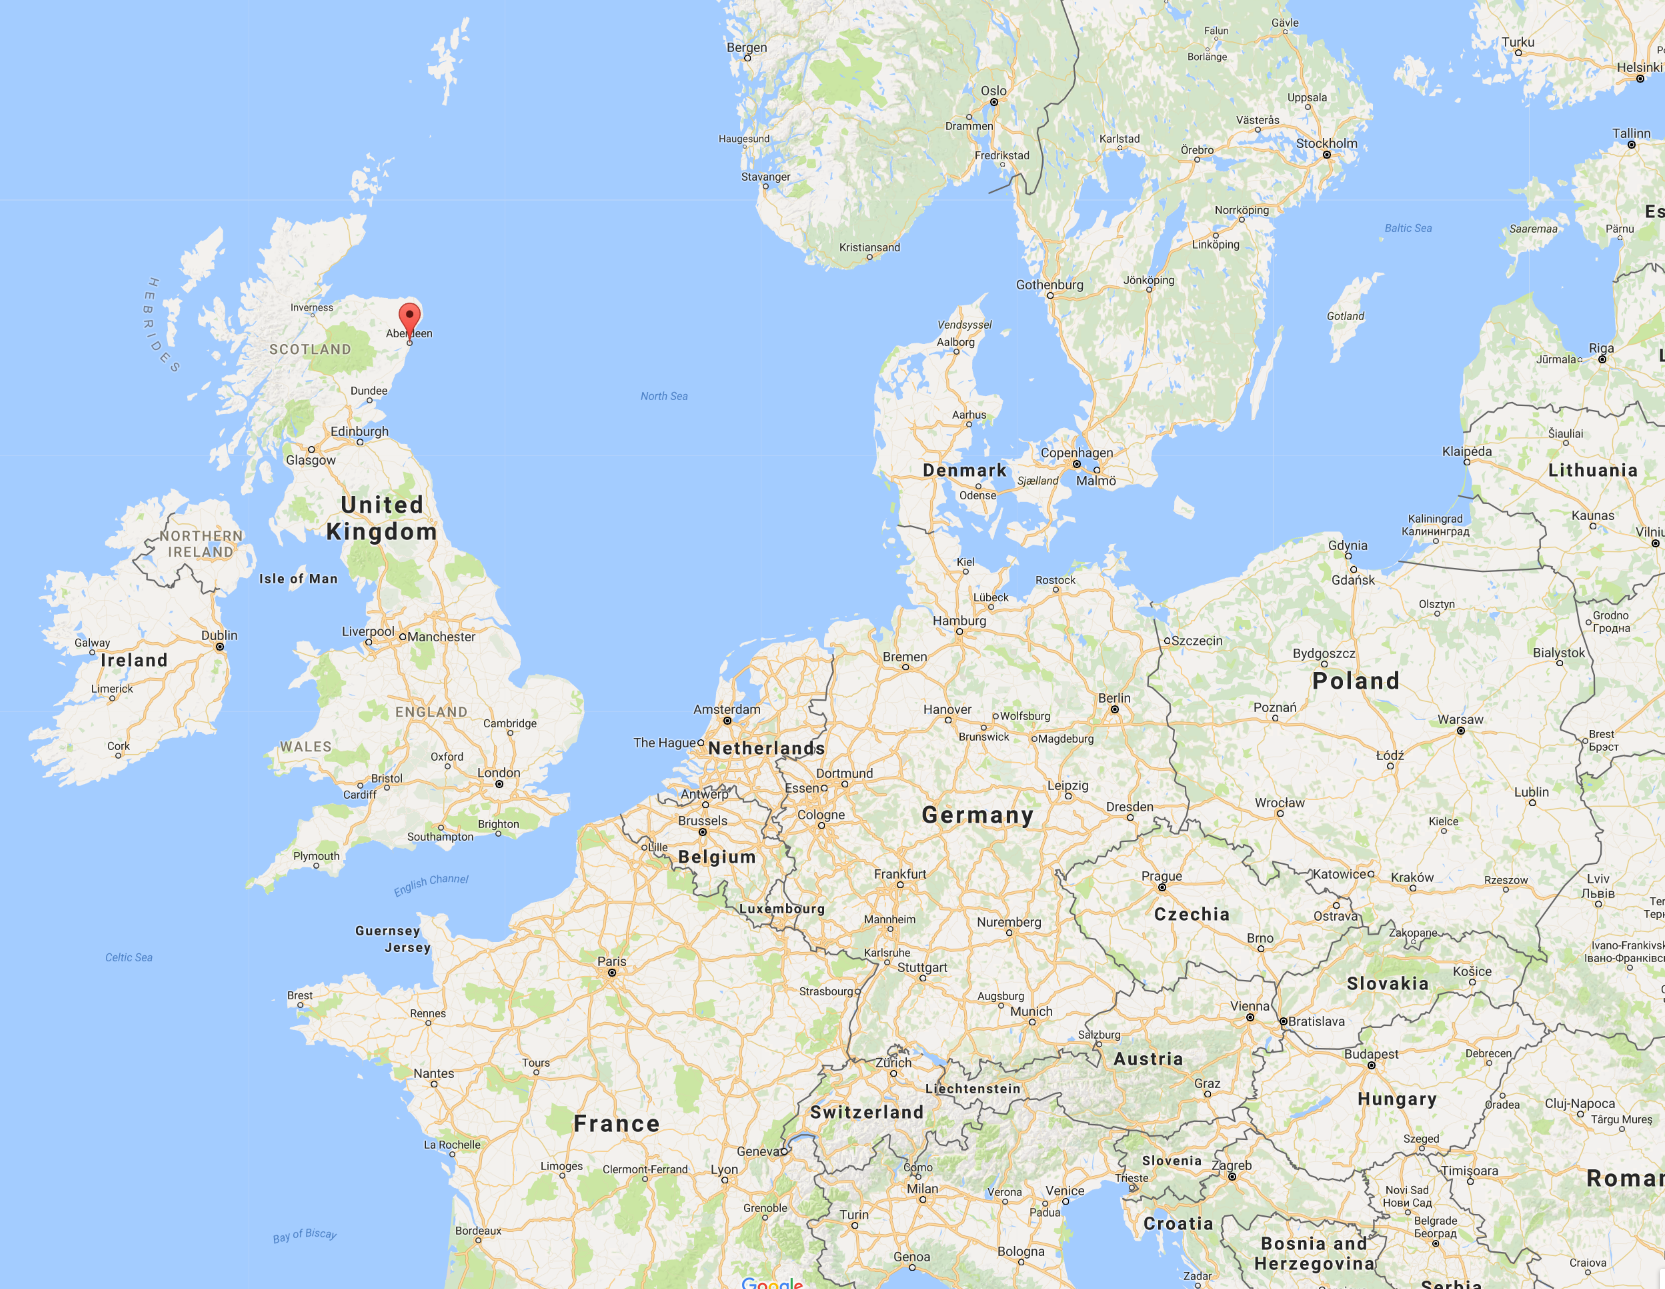
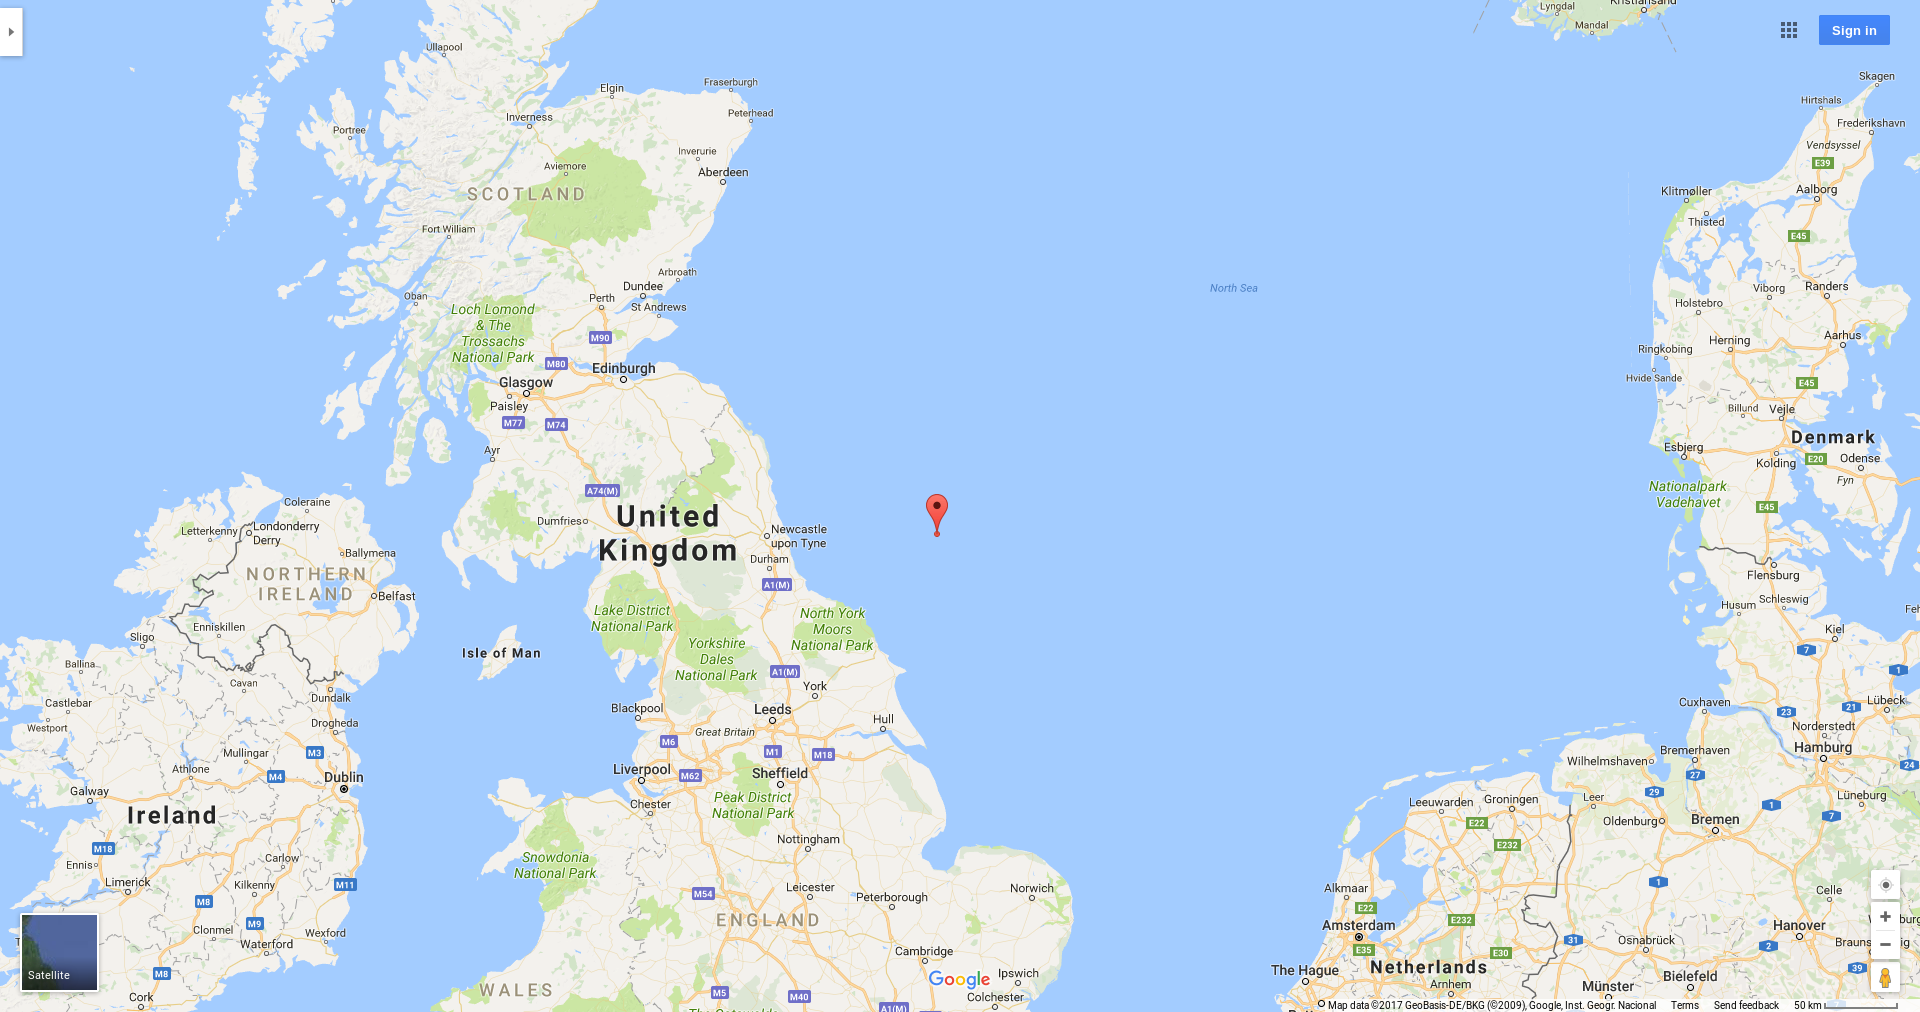
updates

diff --git a/slides/slides.html b/slides/slides.html
@@ -81,25 +81,6 @@
         
         
         <!--
-Your Joomla dev-ops, ci & cd toolbox
-http://jandbeyond.org/programme.html?view=session&id=409&return=L3Byb2dyYW1tZS5odG1s
-This talk will provide a gourmet buffet of information and ideas for dev-ops, continuous integration and continuous deployment. It"ll include a good spread of practical details on tools and systems, and their use with Joomla, that you can take home and try with your Joomla development and deployment. It"ll include, among other aspects...
-- Deployment automation
-- Using Joomla docker containers
-- Automated deployment with Akeeba UNiTE
-- Scripting options and choosing between node.js, shell and php
-- Headless browser options like Casper, PhantomJS and Zombie.js
-- CI platform options, like GitLab, Bamboo, Travis, Jenkins and GoCD
-- Simple monitoring solutions
-- Diagnostic tools
-The talk will be supported by a repository of examples code and notes in GitHub.         
-        
-        
-https://github.com/hakimel/reveal.js#markdown
-ifle:///home/andy/J&B_2017/slides/slides.html#/6
-
-
-
         -->
     </head>
     <body>
@@ -113,24 +94,35 @@ ifle:///home/andy/J&B_2017/slides/slides.html#/6
 <section data-background-image="images/cacti/small_DSC09511.JPG">
     <h1>Who?</h1>
 </section>
+<!--
+Latitude: 54.99019
+Longitude: 0.25242
+-->
+
+
+
+
 <section>
     <h2>Who?...</h2>
     <ul>
         <li>Web developer from the UK with 20 years experience</li>
-        <li>From London, living in Aberdeen via Edinburgh, Sydney and Glasgow</li>
         <li>Developing with Joomla for 10 years, mainly doing App backends & APIs last couple of years</li>
         <li>twitter: AndyGasman</li>
         <li>email: ag@ssofb.co.uk</li>
     </ul>
 </section>  
   
+<section data-background-image="images/croydon.jpg">
+</section>
+<section data-background-image="images/edinburgh.jpg">
+</section>
+<section data-background-image="images/sydney.jpg">
+</section>
+<section data-background-image="images/glasgow.jpg">
+</section>
+<section data-background-image="images/aberdeen.jpg">
+</section>
 <section data-background-image="images/map.png">
-</section>
-<section data-background-image="images/office1.jpg">
-</section>
-<section data-background-image="images/office2.jpg">
-</section>
-<section data-background-image="images/office3.jpg">
 </section>
 
 <section data-background-image="images/cacti/small_DSC09503.JPG">
